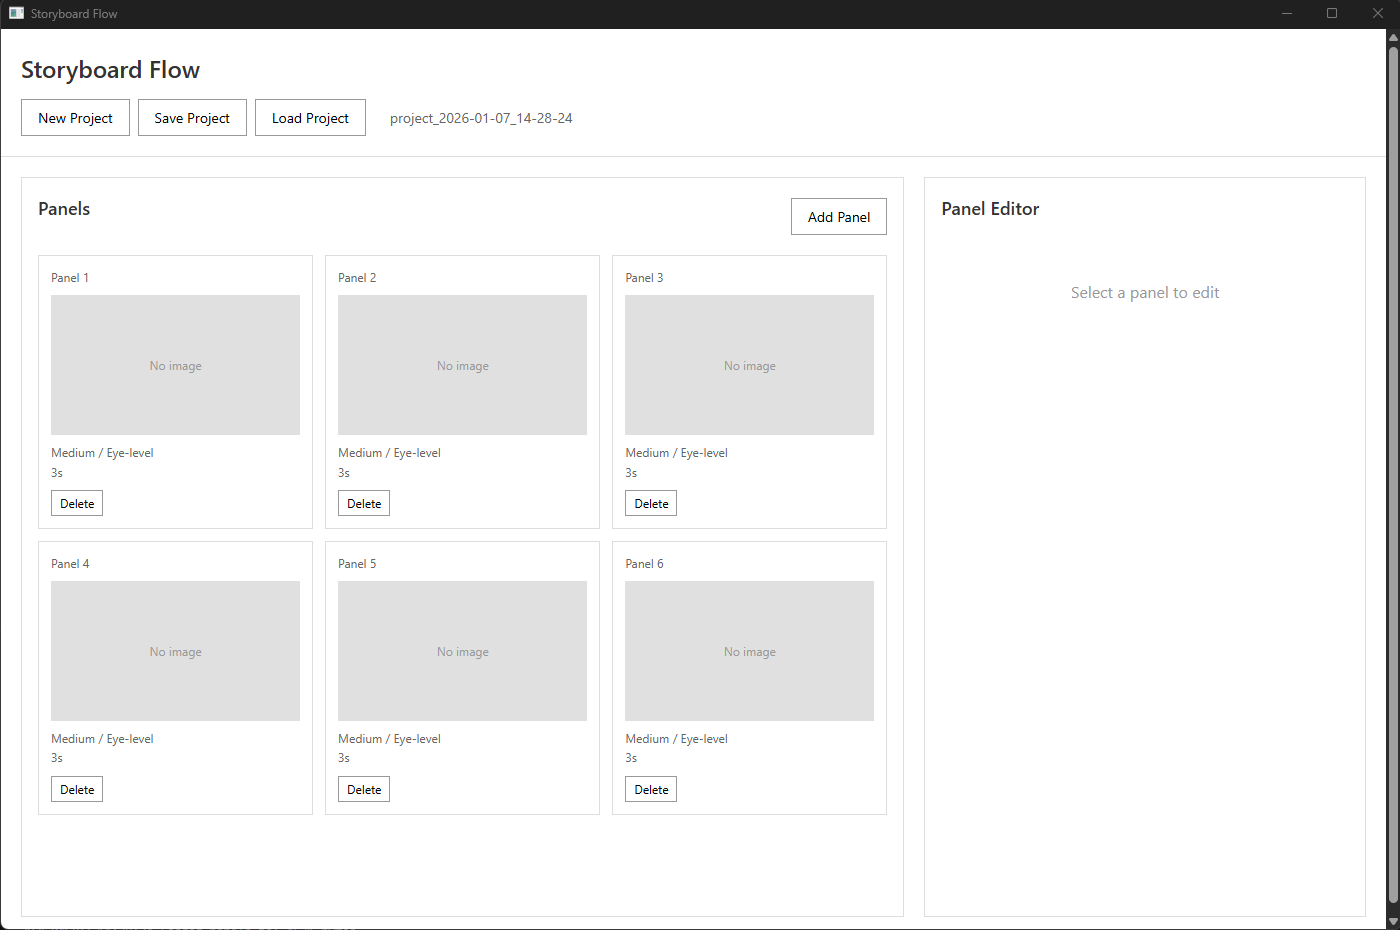
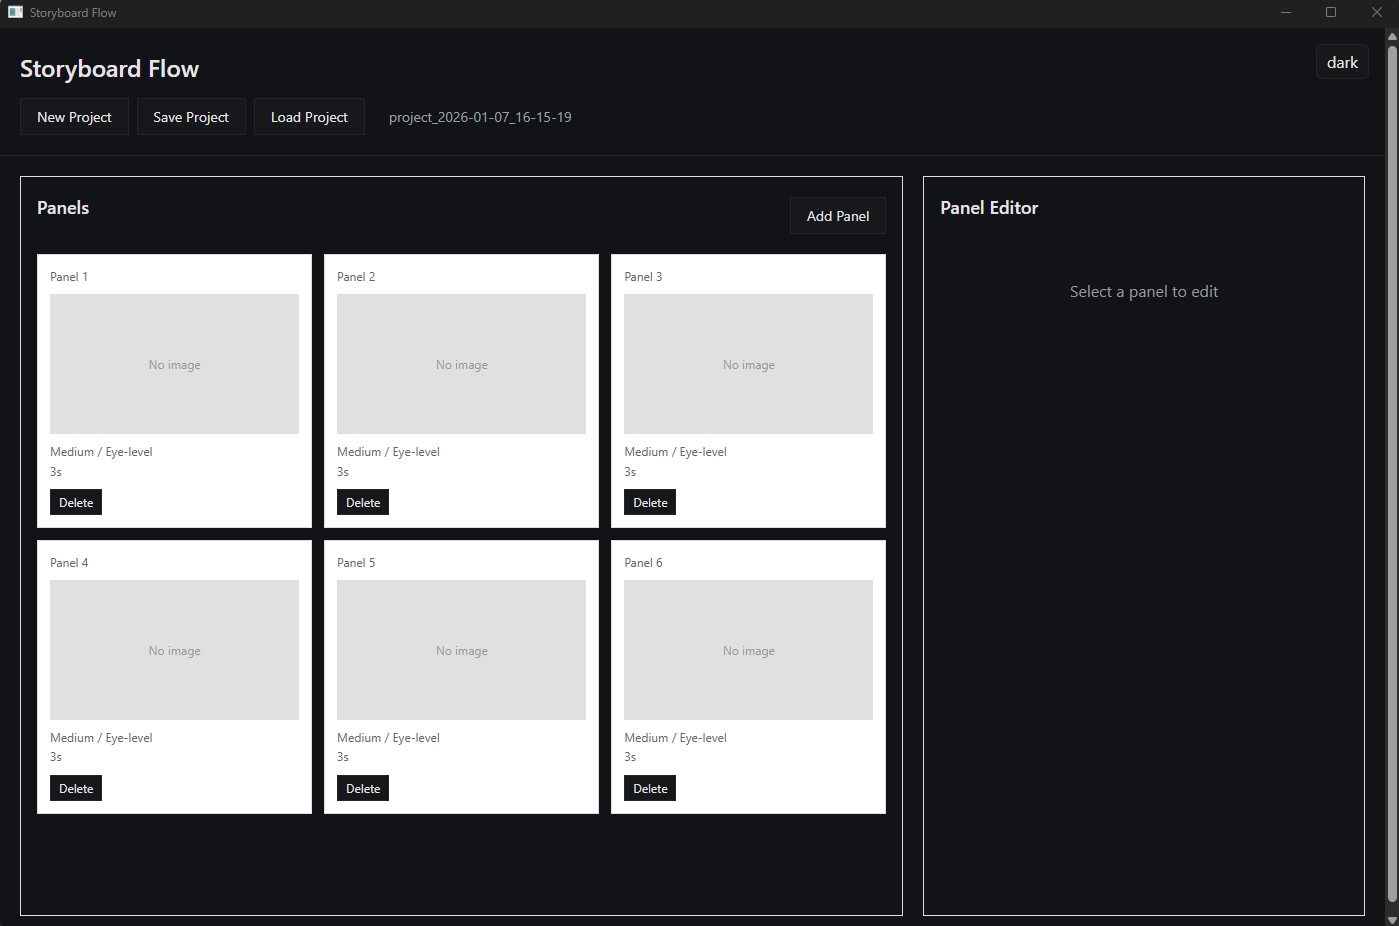
feat: implement theme toggle functionality with dark/light mode support

diff --git a/web/css/styles.css b/web/css/styles.css
@@ -4,23 +4,46 @@
     box-sizing: border-box;
 }
 
+:root {
+    --bg: #f5f5f5;
+    --surface: #ffffff;
+    --text: #222222;
+    --muted: #666666;
+    --border: #dddddd;
+    --button-bg: #ffffff;
+    --button-text: #222222;
+    --button-hover: #f0f0f0;
+}
+
+.dark {
+    --bg: #0f1115;
+    --surface: #121316;
+    --text: #e6e6e6;
+    --muted: #9aa0a6;
+    --border: #22262b;
+    --button-bg: #17181b;
+    --button-text: #e6e6e6;
+    --button-hover: #212325;
+}
+
 body {
     font-family: -apple-system, BlinkMacSystemFont, "Segoe UI", sans-serif;
-    background: #f5f5f5;
-    color: #333;
+    background: var(--bg);
+    color: var(--text);
     line-height: 1.6;
 }
 
 .container {
     max-width: 1400px;
     margin: 0 auto;
-    background: white;
+    background: var(--surface);
 }
 
 /* Header */
 header {
     padding: 20px;
-    border-bottom: 1px solid #ddd;
+    border-bottom: 1px solid var(--border);
+    position: relative;
 }
 
 header h1 {
@@ -37,14 +60,15 @@ header h1 {
 
 .project-name {
     margin-left: 16px;
-    color: #666;
+    color: var(--muted);
     font-size: 14px;
 }
 
 /* Buttons */
 button {
-    background: white;
-    border: 1px solid #999;
+    background: var(--button-bg);
+    border: 1px solid var(--border);
+    color: var(--button-text);
     padding: 8px 16px;
     font-size: 14px;
     cursor: pointer;
@@ -52,11 +76,20 @@ button {
 }
 
 button:hover {
-    background: #f0f0f0;
+    background: var(--button-hover);
 }
 
 button:active {
-    background: #e0e0e0;
+    opacity: 0.95;
+}
+
+.theme-toggle {
+    position: absolute;
+    right: 16px;
+    top: 16px;
+    padding: 6px 10px;
+    border-radius: 6px;
+    font-size: 16px;
 }
 
 /* Main Layout */

diff --git a/web/js/app.js b/web/js/app.js
@@ -1,3 +1,37 @@
+// Theme handling
+const Theme = {
+    key: 'theme',
+    get() {
+        try {
+            return localStorage.getItem(this.key) || 'light';
+        } catch (e) {
+            return 'light';
+        }
+    },
+    apply(t) {
+        if (t === 'dark') document.documentElement.classList.add('dark');
+        else document.documentElement.classList.remove('dark');
+        try {
+            localStorage.setItem(this.key, t);
+        } catch (e) {
+            // localStorage not available - theme won't persist
+        }
+        updateThemeToggle();
+    },
+    toggle() {
+        const isDark = document.documentElement.classList.contains('dark');
+        this.apply(isDark ? 'light' : 'dark');
+    }
+};
+
+function updateThemeToggle() {
+    const btn = document.getElementById('themeToggle');
+    if (!btn) return;
+    const isDark = document.documentElement.classList.contains('dark');
+    btn.textContent = isDark ? 'dark' : 'light';
+    btn.title = isDark ? 'Switch to light mode' : 'Switch to dark mode';
+}
+
 // Main application state and handlers
 const app = {
     currentProject: null,
@@ -7,6 +41,10 @@ const app = {
         // Create a default project on startup
         this.newProject();
         await this.refreshPanels();
+        // Initialize theme
+        Theme.apply(Theme.get());
+        const btn = document.getElementById('themeToggle');
+        if (btn) btn.addEventListener('click', () => Theme.toggle());
     },
 
     async newProject() {

diff --git a/web/index.html b/web/index.html
@@ -17,6 +17,7 @@
                 <button onclick="app.loadProject()">Load Project</button>
                 <span id="projectName" class="project-name"></span>
             </div>
+            <button id="themeToggle" class="theme-toggle" aria-label="Toggle theme">light</button>
         </header>
 
         <!-- Main Content -->
